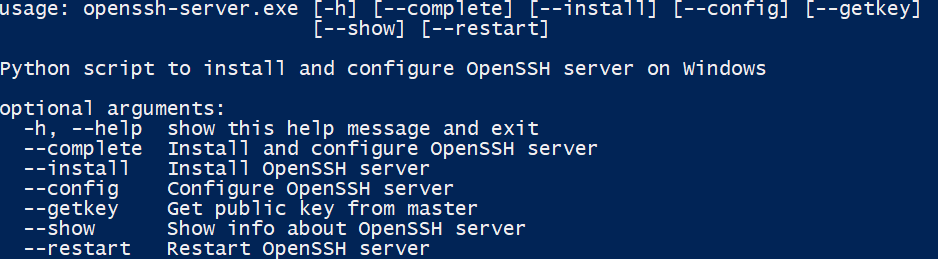
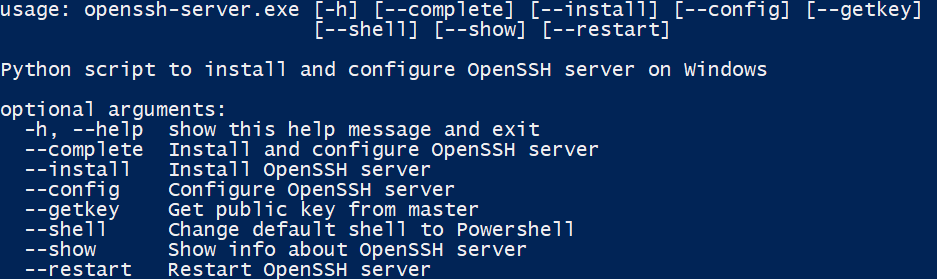
[improved] documentation for shell change

Changed region(s): [[0.0, 0.3707, 0.6499, 1.0], [0.0, 0.0, 0.9904, 0.1544], [0.0, 0.2162, 0.8356, 0.3089]]

diff --git a/openssh-server/README.md b/openssh-server/README.md
@@ -34,8 +34,13 @@ The following options are available for using the application:
 | --install  | Install OpenSSH server                  |
 | --config   | Configure OpenSSH server                |
 | --getkey   | Get public key from master              |
+| --shell    | Change default shell to Powershell      |
 | --show     | Show info about OpenSSH server          |
 | --restart  | Restart OpenSSH server                  |
+
+> Please note, If you are using the OpenSSH server for Ansible you have to 
+> change the inventory for Windows to ansible_shell_type=powershell when 
+> changing the shell to Powershell
 
 # Download
 [Download link](https://github.com/jebr/windows-scripts/raw/main/openssh-server/openssh-server.exe)
